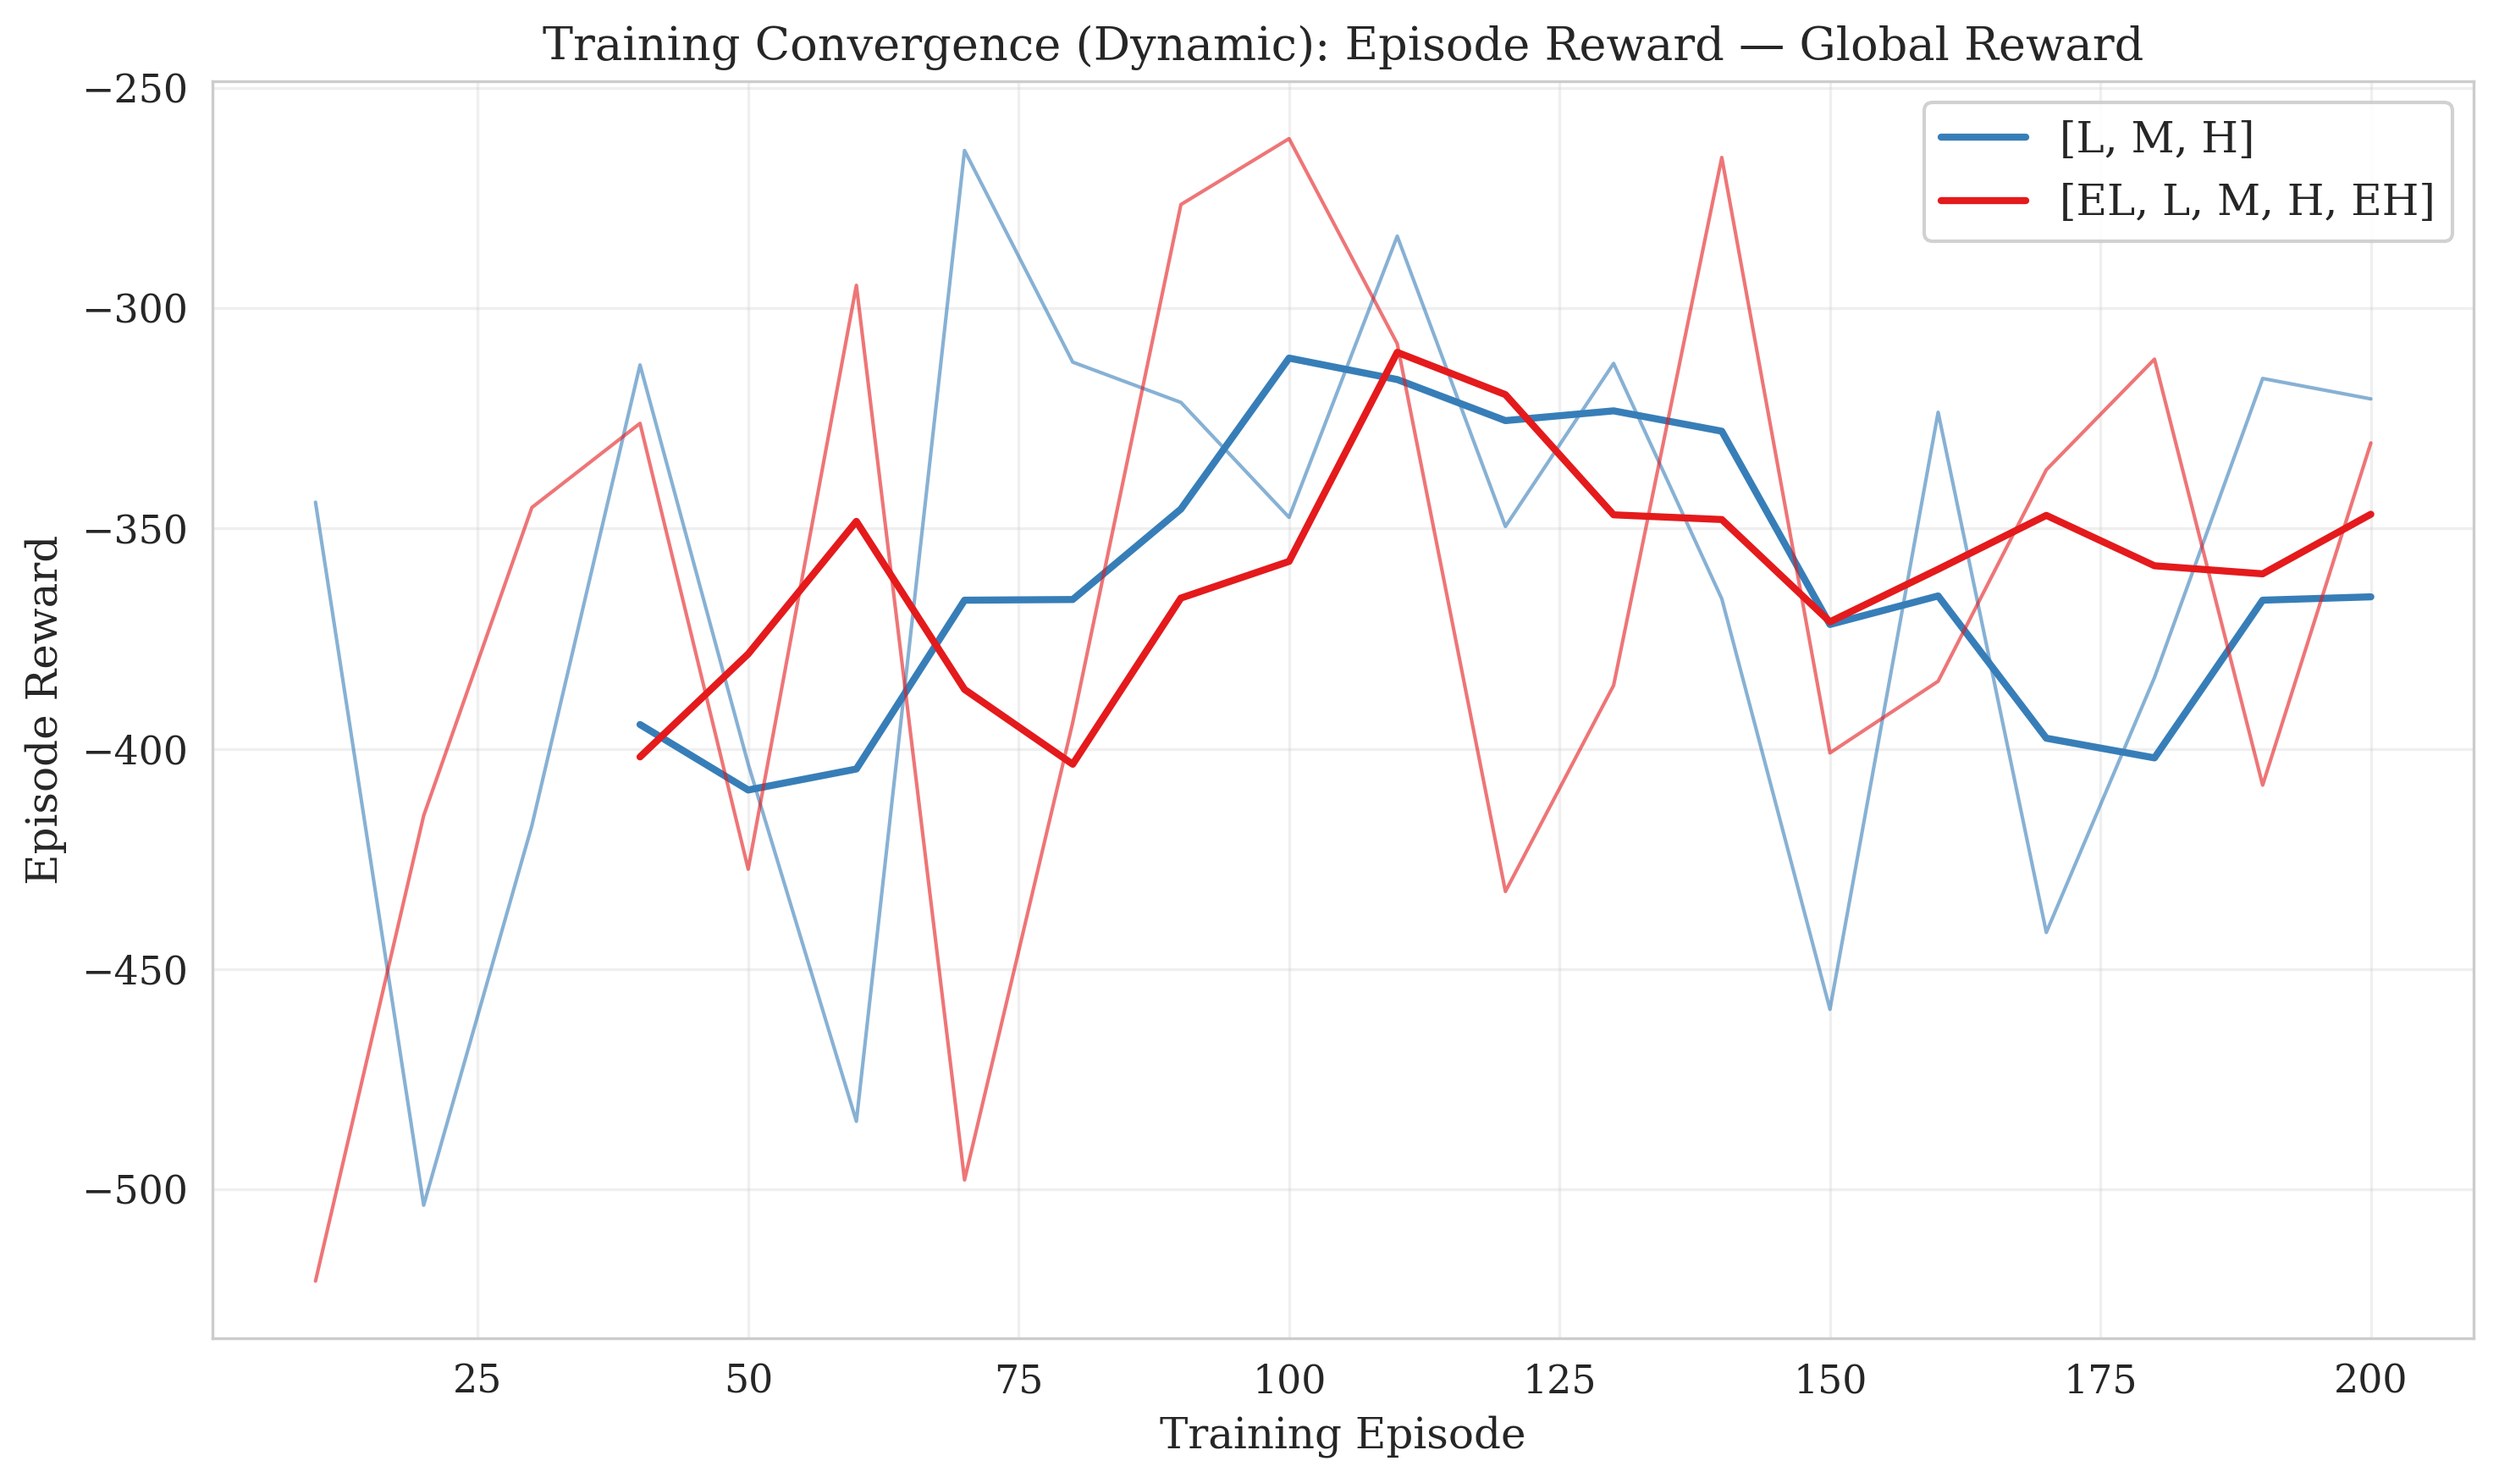
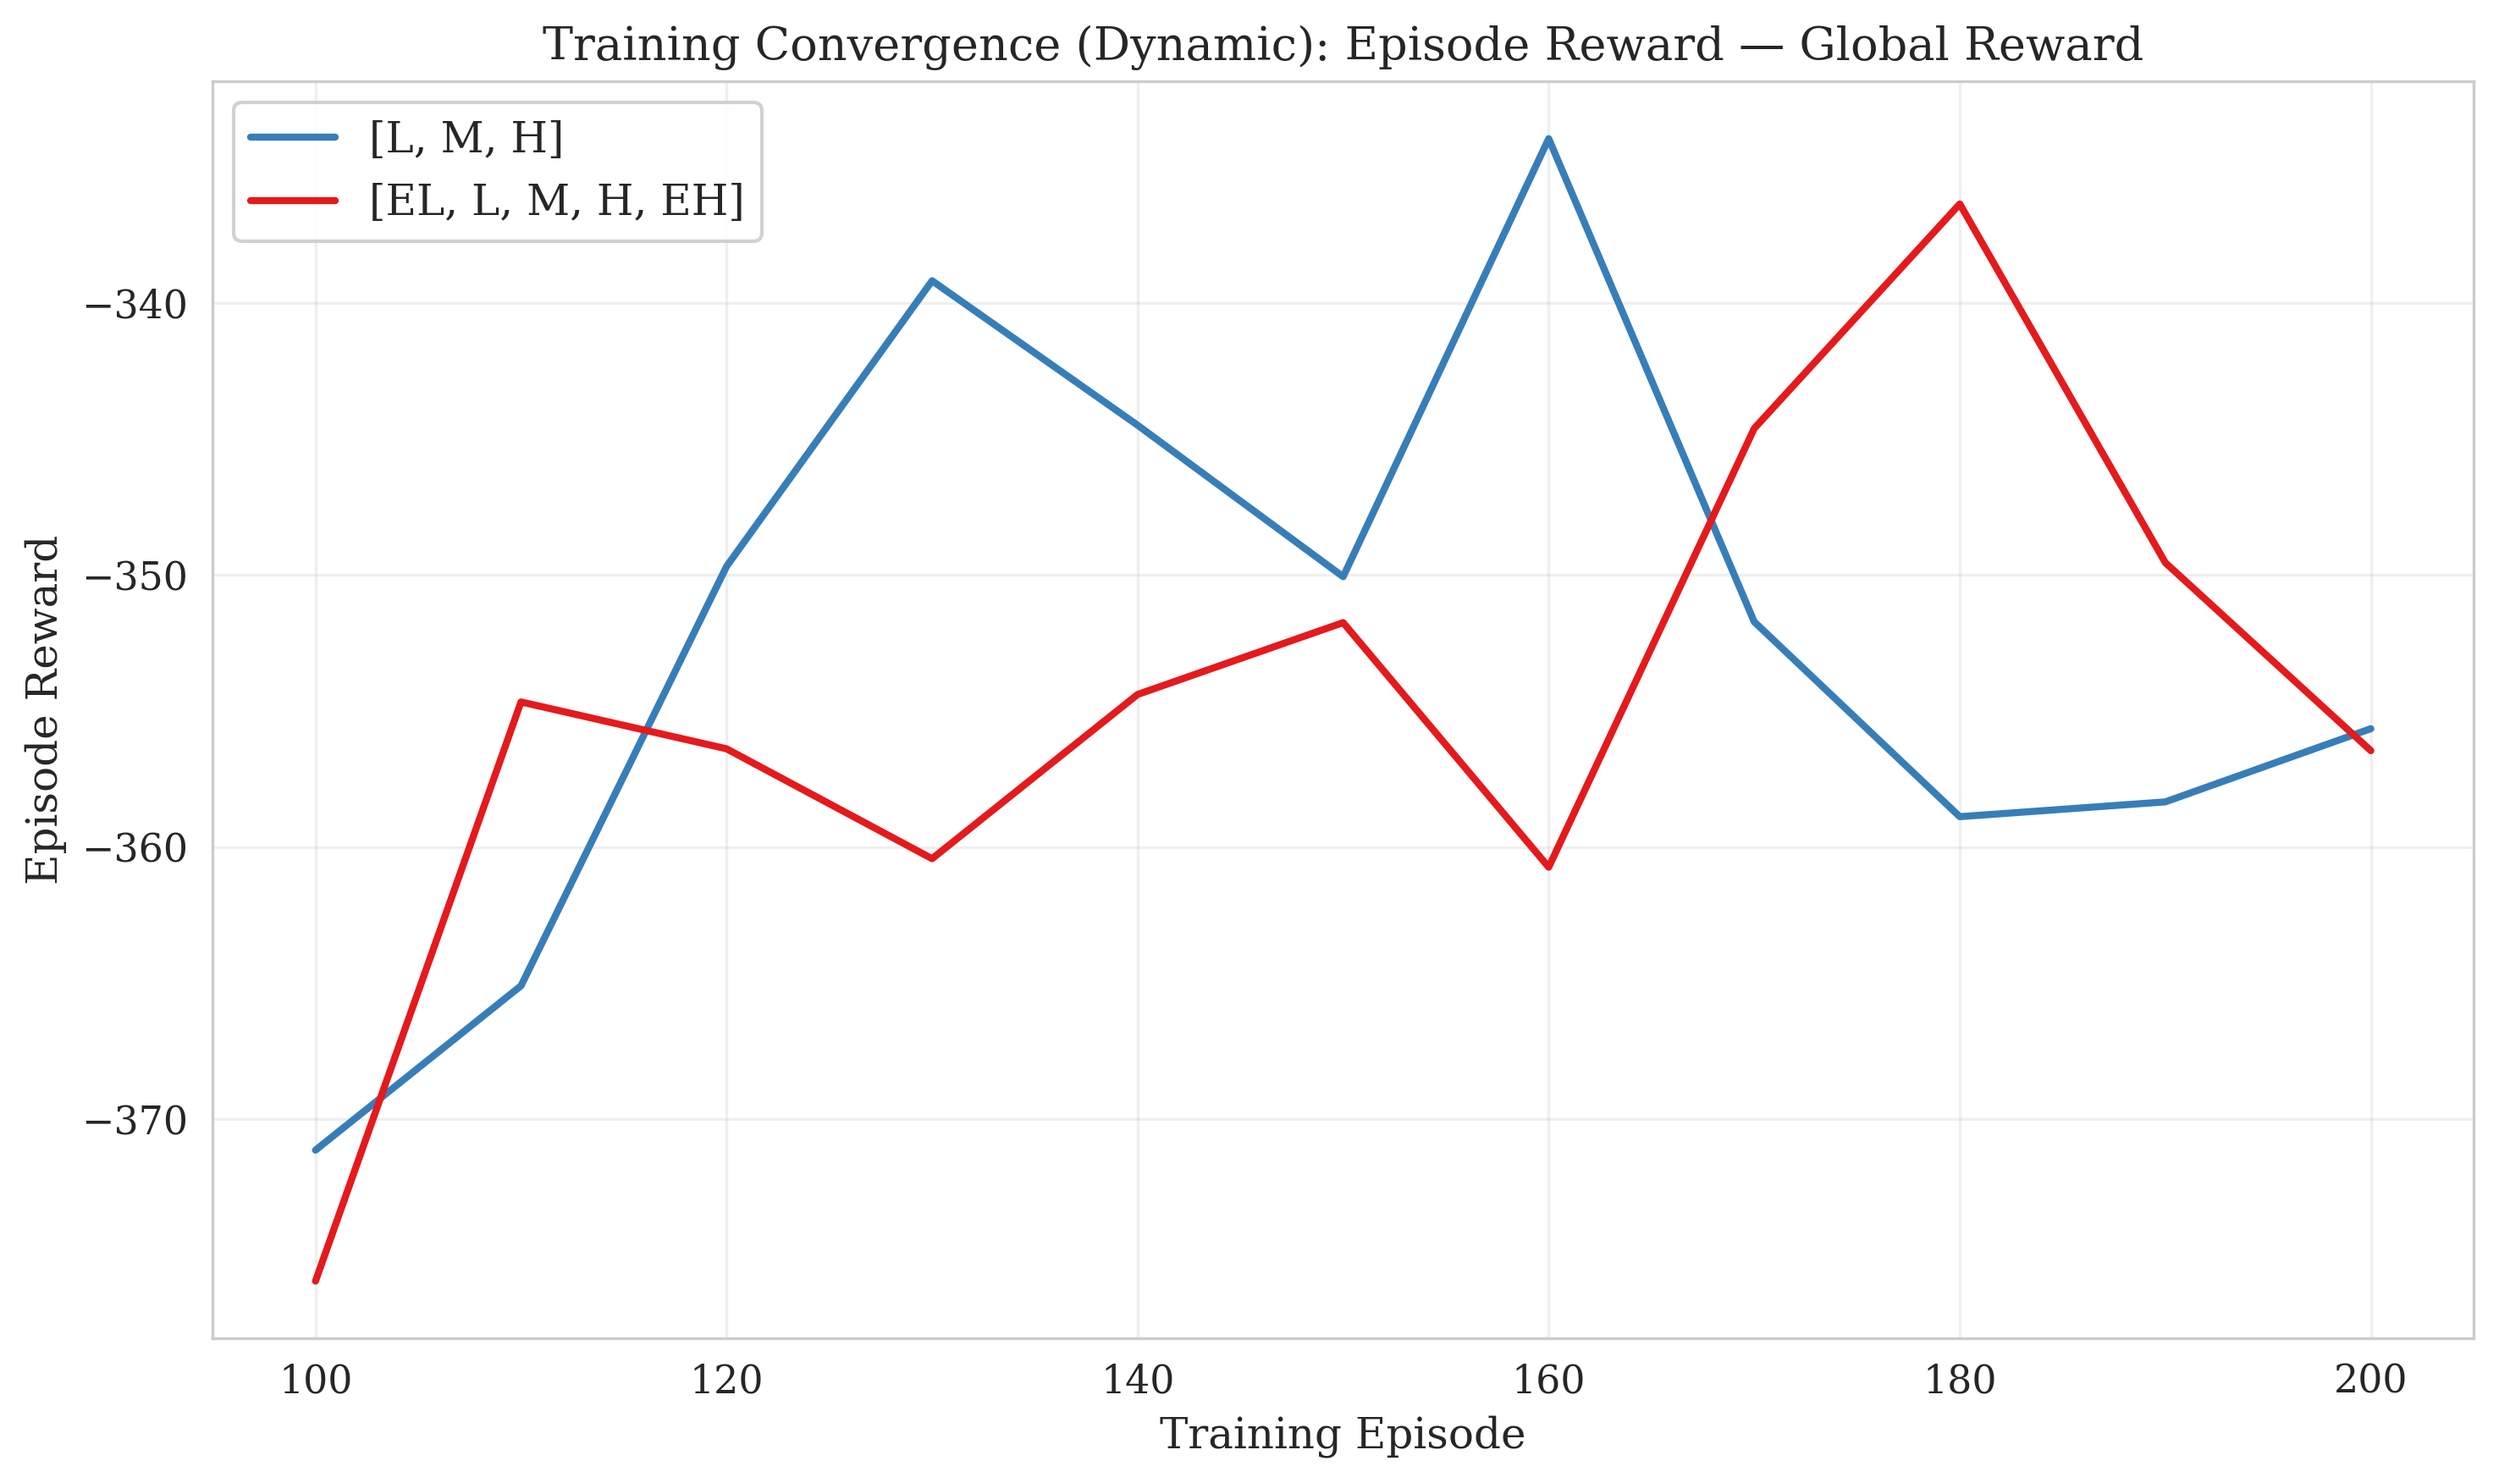
ver4.2

diff --git a/figures_static.py b/figures_static.py
@@ -132,22 +132,23 @@ def _single_timeseries(data, xlabel, ylabel, title, color, out_path, label):
 def _multi_timeseries(exps, metric_key, xlabel, ylabel, title,
                       colors, out_path, label_key):
     """
-    Plot one time-series curve per experiment on the same axes.
+    Plot one smoothed trend-line per experiment on the same axes.
     Each curve is labelled by its dynamic profile pool abbreviation.
+    Only the moving-average line is drawn — no faded raw trace.
     """
     fig, ax = plt.subplots(figsize=(10, 6))
     plotted = 0
     for exp, color in zip(exps, colors):
         if metric_key not in exp['data']:
             continue
-        pool     = exp.get('dynamic_profile_set', [])
+        pool        = exp.get('dynamic_profile_set', [])
         curve_label = f"[{abbrev_profile(pool)}]" if pool else exp['scenario_str']
         steps  = np.array(exp['data'][metric_key]['steps'])
         values = np.array(exp['data'][metric_key]['values'])
-        ax.plot(steps, values, alpha=0.6, color=color, linewidth=1)
-        # Moving average for a cleaner trend line
-        if len(values) >= 20:
-            window = min(20, len(values) // 5)
+
+        # Smoothed trend line only — window = 10% of series length, min 10
+        window = max(10, len(values) // 10)
+        if len(values) >= window:
             ma = np.convolve(values, np.ones(window) / window, mode='valid')
             ax.plot(steps[window - 1:], ma, color=color, linewidth=2,
                     label=curve_label)
@@ -327,12 +328,9 @@ def fig1_training_convergence(experiments, output_dir):
                 steps  = np.array(exp['data'][metric_key]['steps'])
                 values = np.array(exp['data'][metric_key]['values'])
 
-                # Faint raw trace
-                ax.plot(steps, values, alpha=0.15, color=color,
-                        linewidth=0.8, linestyle=ls)
-                # Moving-average trend line (labelled)
-                if len(values) >= 20:
-                    window = min(20, len(values) // 5)
+                # Smoothed trend line only — no faded raw trace
+                window = max(10, len(values) // 10)
+                if len(values) >= window:
                     ma = np.convolve(values, np.ones(window) / window, mode='valid')
                     ax.plot(steps[window - 1:], ma, color=color, linewidth=2,
                             linestyle=ls, label=label)
